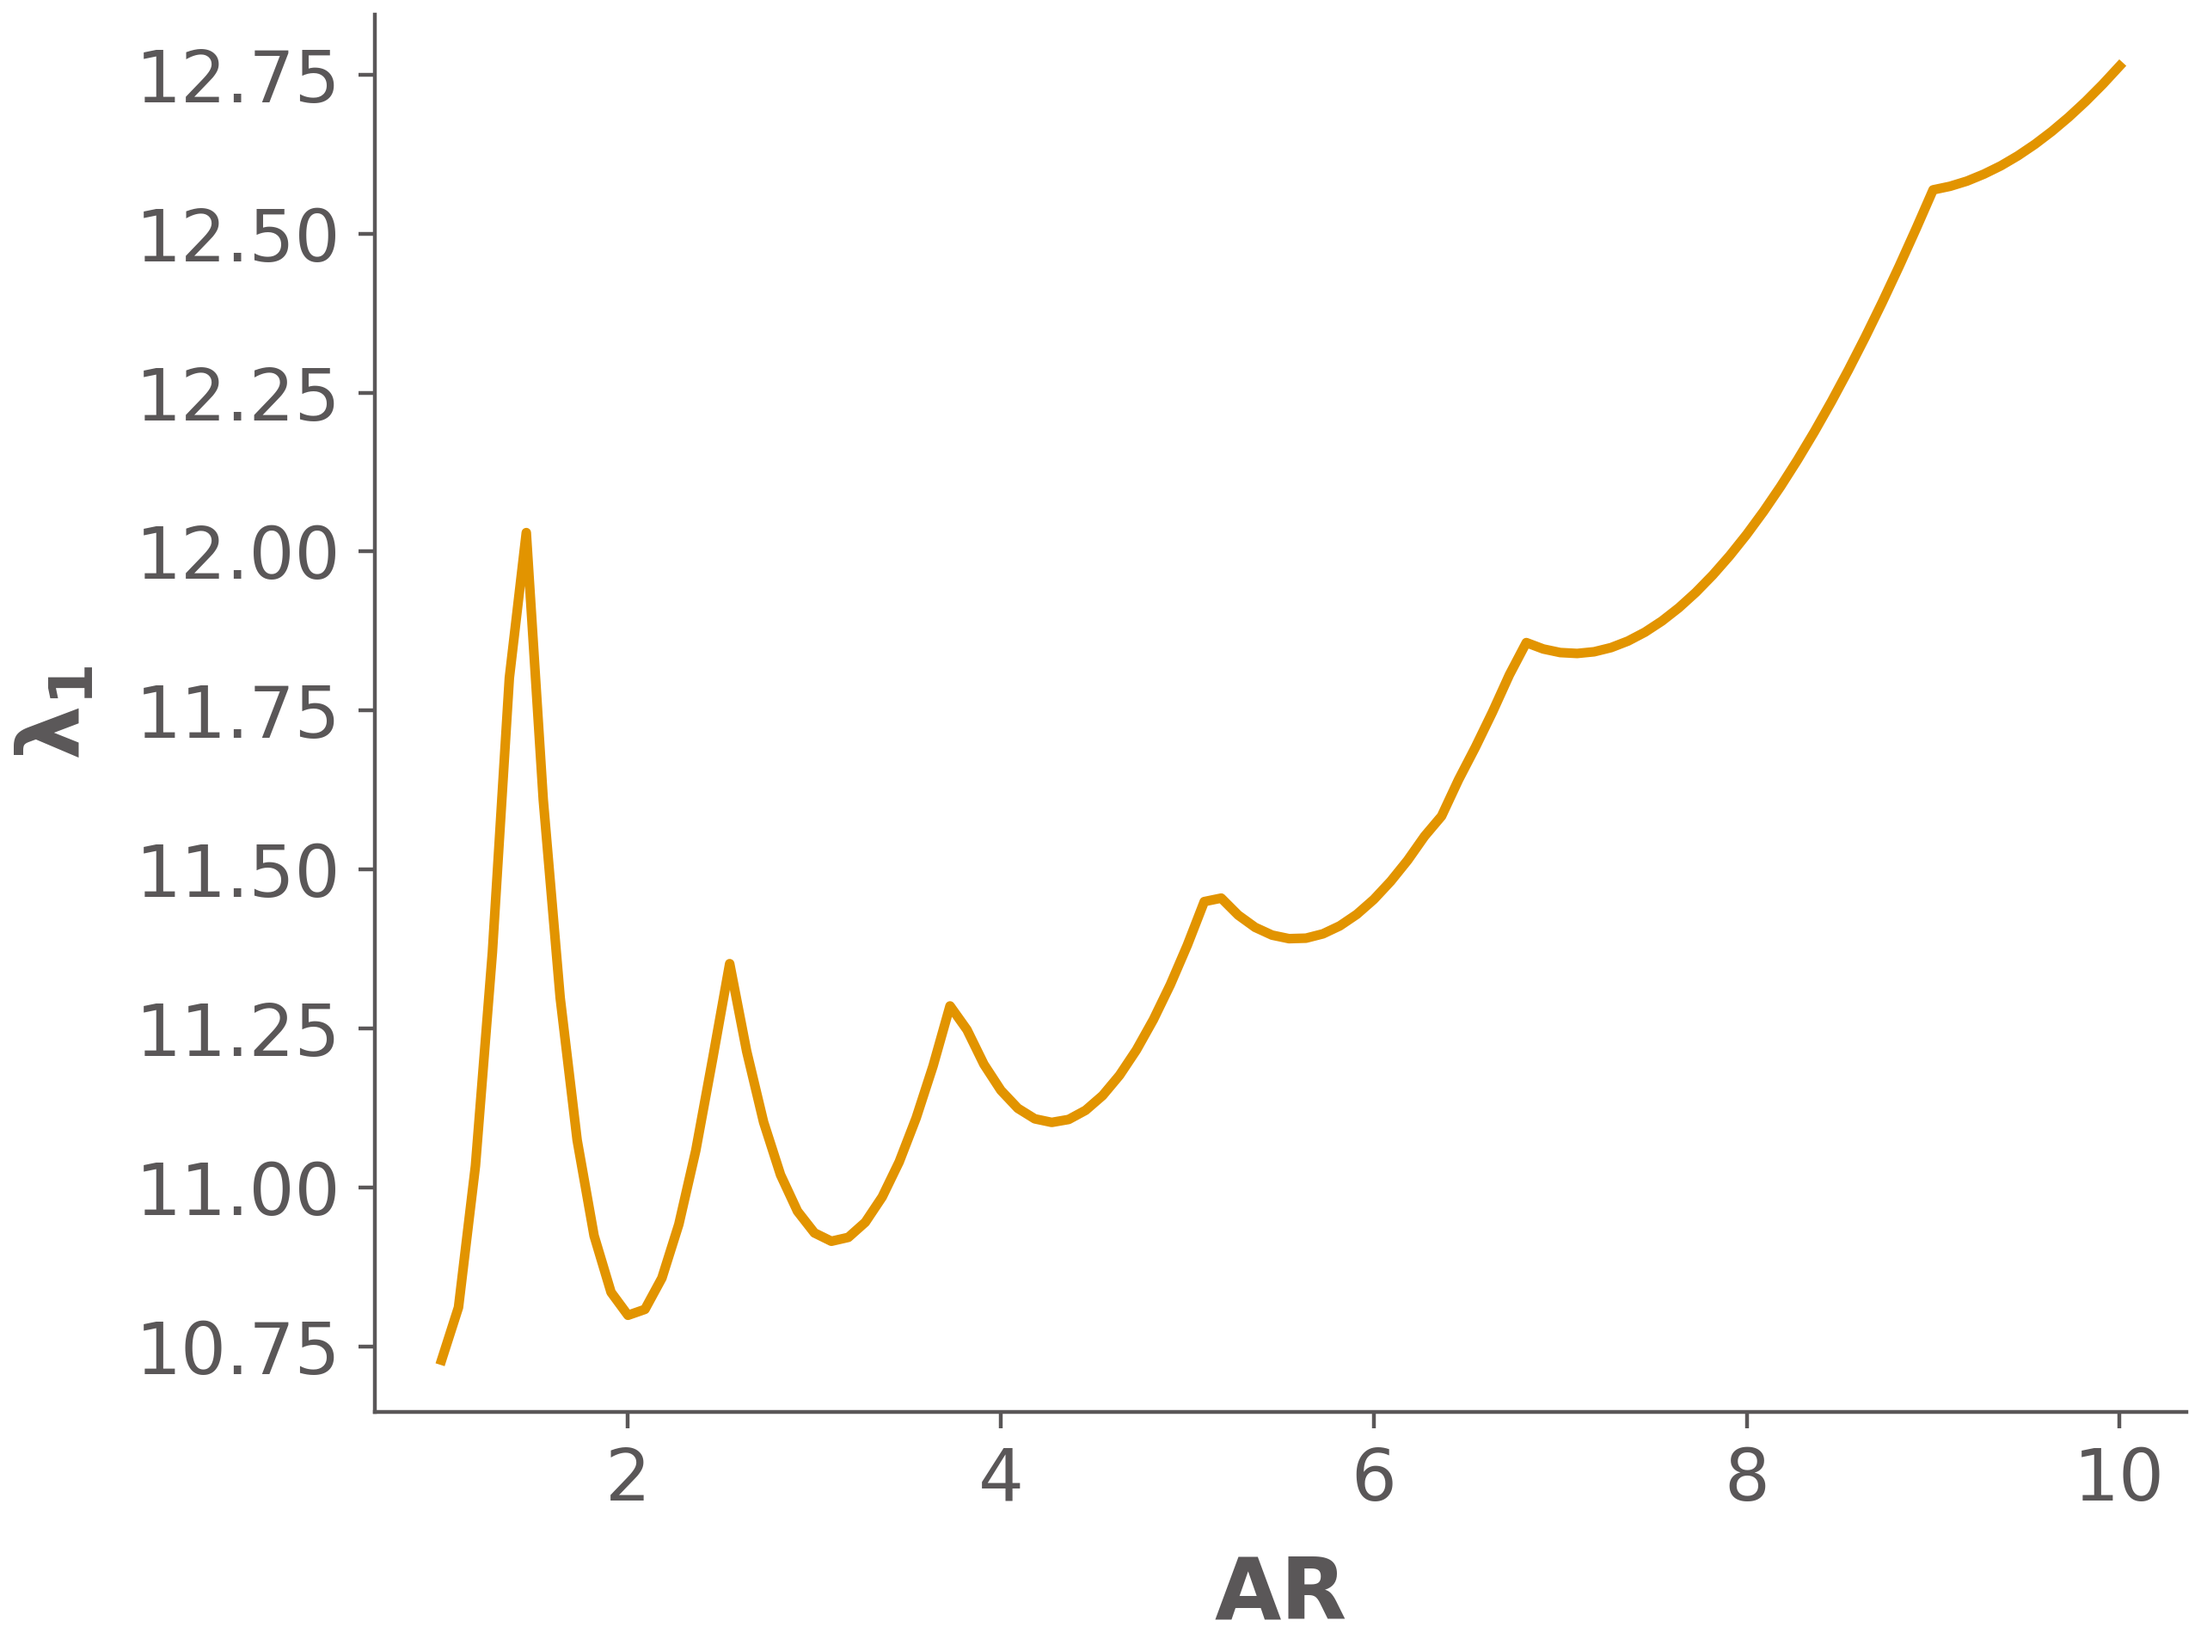
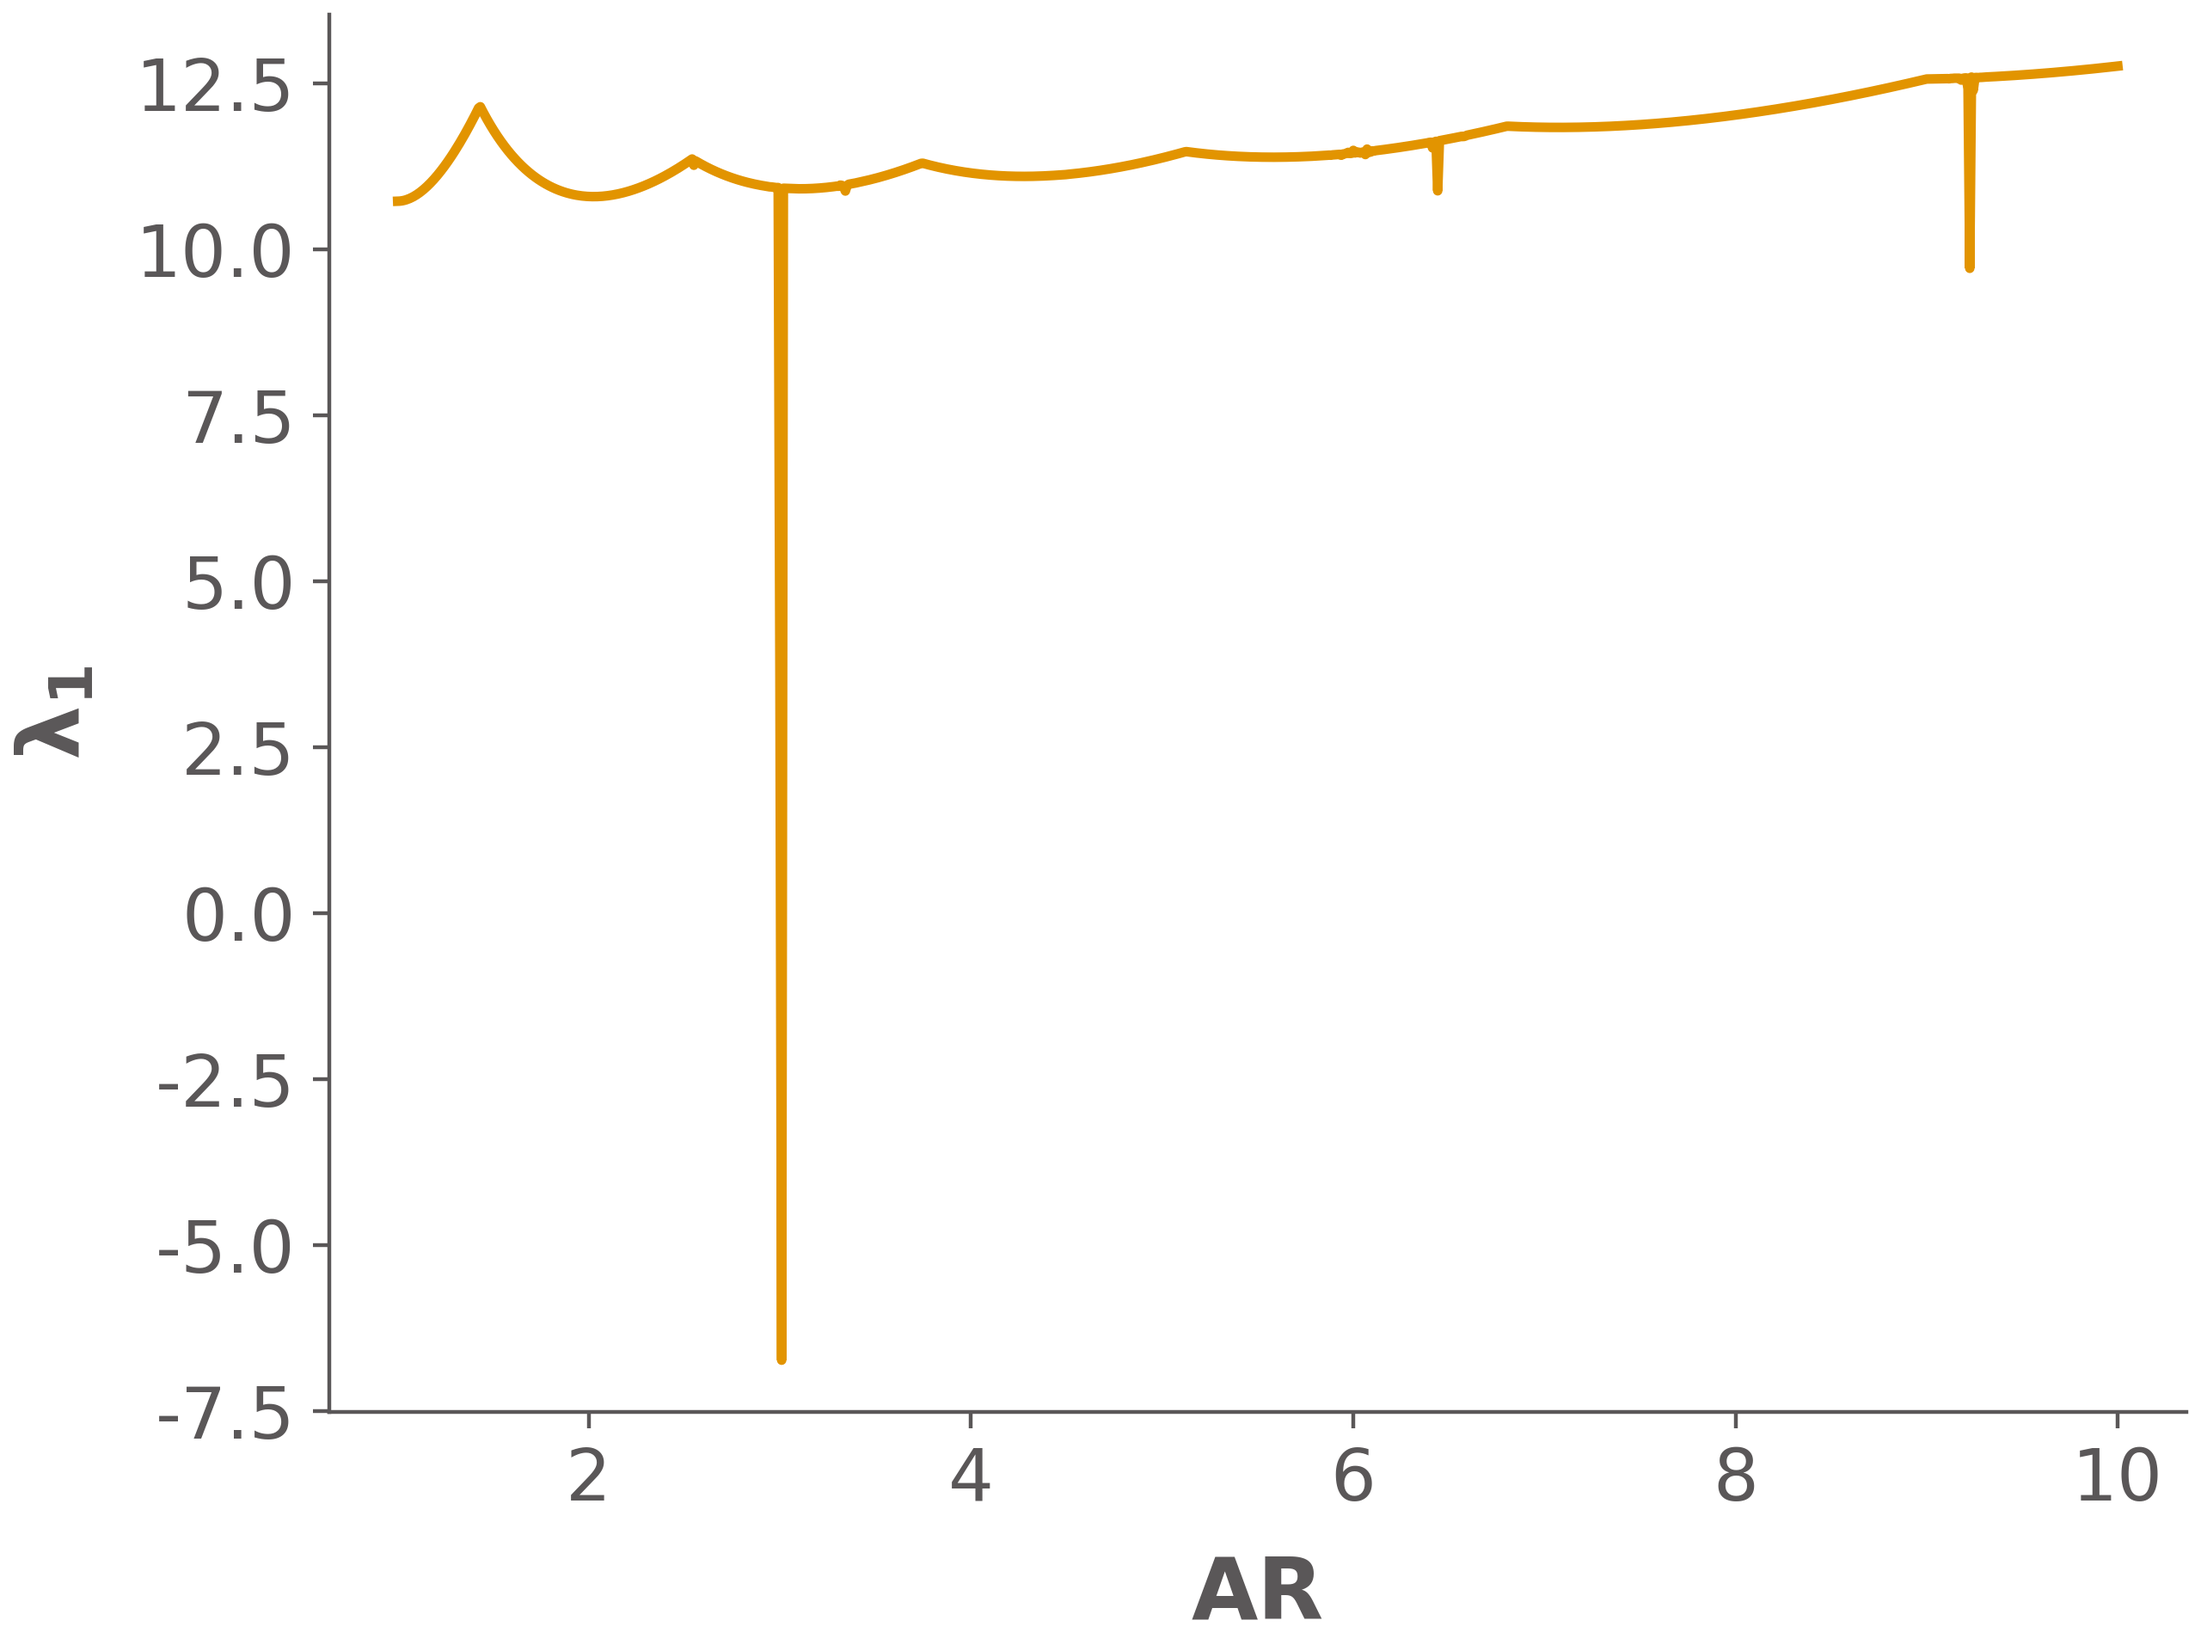
demo ml model

diff --git a/examples/plate_ml/uniaxial_compress/train_model.py b/examples/plate_ml/uniaxial_compress/train_model.py
@@ -18,36 +18,69 @@ and is still conservative. Whereas TACS includes shear strain energy in its geom
 df = pd.read_csv("buckle_data.csv")
 AR = df["AR"].to_numpy()
 eig1 = df["eig1"].to_numpy()
-#print(AR)
-#print(eig1)
+# print(AR)
+# print(eig1)
+
+# remove outliers, in this case any negative eigenvalues
+x_train = []
+y_train = []
+for i in range(AR.shape[0]):
+    if eig1[i] > 10.0:  # chosen min eigenvalue (dataset-dependent)
+        x_train += [AR[i]]
+        y_train += [eig1[i]]
+
+# reshape into (N,1) arrays
+x_train = np.array(x_train)
+y_train = np.array(y_train)
+n_train = x_train.shape[0]
+x_train = np.reshape(x_train, newshape=(n_train, 1))
+y_train = np.reshape(y_train, newshape=(n_train, 1))
 
 # should split into training, validation, test data here
 # but I'm not gonna do that just yet
 
 # form the machine learning model
-model = tf.keras.models.Sequential([
-  tf.keras.Input(shape=(1,)),
-  tf.keras.layers.Dense(128, activation='relu'),
-  tf.keras.layers.Dropout(0.2),
-  tf.keras.layers.Dense(20, activation='relu'),
-  tf.keras.layers.Dense(1)
-])
-#tf.keras.layers.Dropout(0.2),
+model = tf.keras.models.Sequential(
+    [
+        tf.keras.Input(shape=(1,)),
+        tf.keras.layers.Dense(128, activation="tanh"),  #'relu'
+        tf.keras.layers.Dropout(0.2),
+        tf.keras.layers.Dense(20, activation="tanh"),  #'relu'
+        tf.keras.layers.Dense(1),
+    ]
+)
+# tf.keras.layers.Dropout(0.2),
 
+# https://github.com/keras-team/tf-keras/issues/501 - mean squared error worse in training step than in compiled version
 optimizer = tf.keras.optimizers.Adam(learning_rate=1e-4)
 loss_fn = tf.keras.losses.MeanSquaredError()
-model.compile(optimizer=optimizer,
-              loss=loss_fn,)
+model.compile(
+    optimizer=optimizer,
+    loss=loss_fn,
+)
 
-model.fit(AR, eig1, epochs=300)
+history = model.fit(x_train, y_train, epochs=1000)
 
 # add test + evaluation later
-#model.evaluate(x_test,  y_test, verbose=2)
+# model.evaluate(x_test,  y_test, verbose=2)
+
+# plot the training history
+# TODO : need to add validation set here
+plt.style.use(niceplots.get_style())
+plt.figure("training-hist")
+plt.plot(history.history["loss"])
+plt.title("training history")
+plt.ylabel("loss")
+plt.xlabel("epoch")
+plt.savefig("training-hist.png", dpi=400)
+plt.close("training-hist")
 
 # plot the 1D model function
-plt.style.use(niceplots.get_style())
+plt.figure("model-compare")
 AR2 = np.linspace(0.0, 10.0, 300)
+AR2 = np.reshape(AR2, newshape=(300, 1))
 eig1_pred = model.predict(AR2)
-plt.plot(AR, eig1, label="data")
+plt.plot(x_train, y_train, label="data")
 plt.plot(AR2, eig1_pred, label="model")
-plt.savefig('ar-eig-pred.png', dpi=400)
+plt.legend()
+plt.savefig("ar-eig-pred.png", dpi=400)
